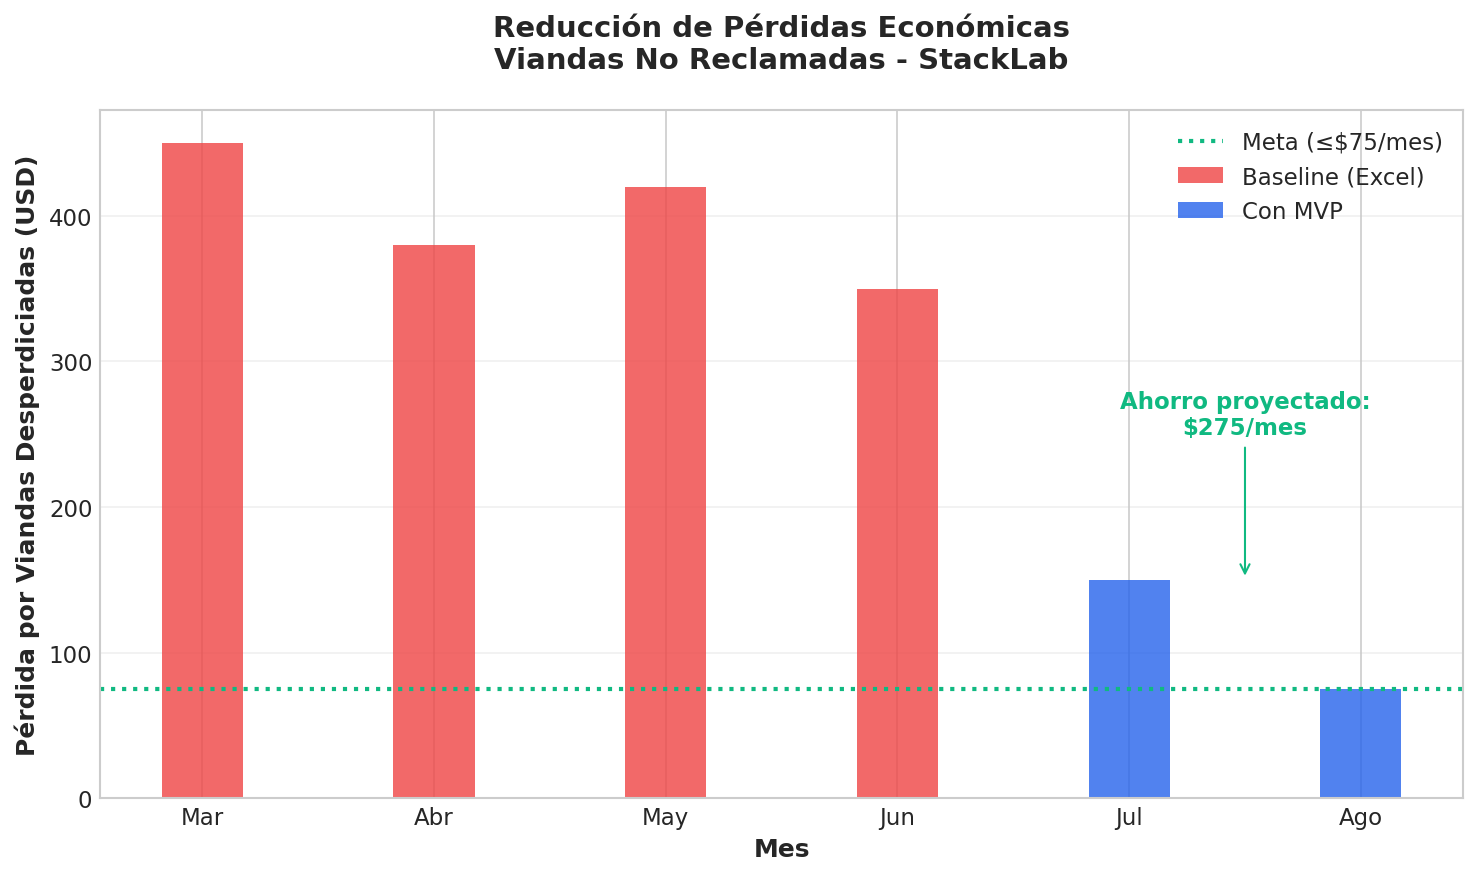
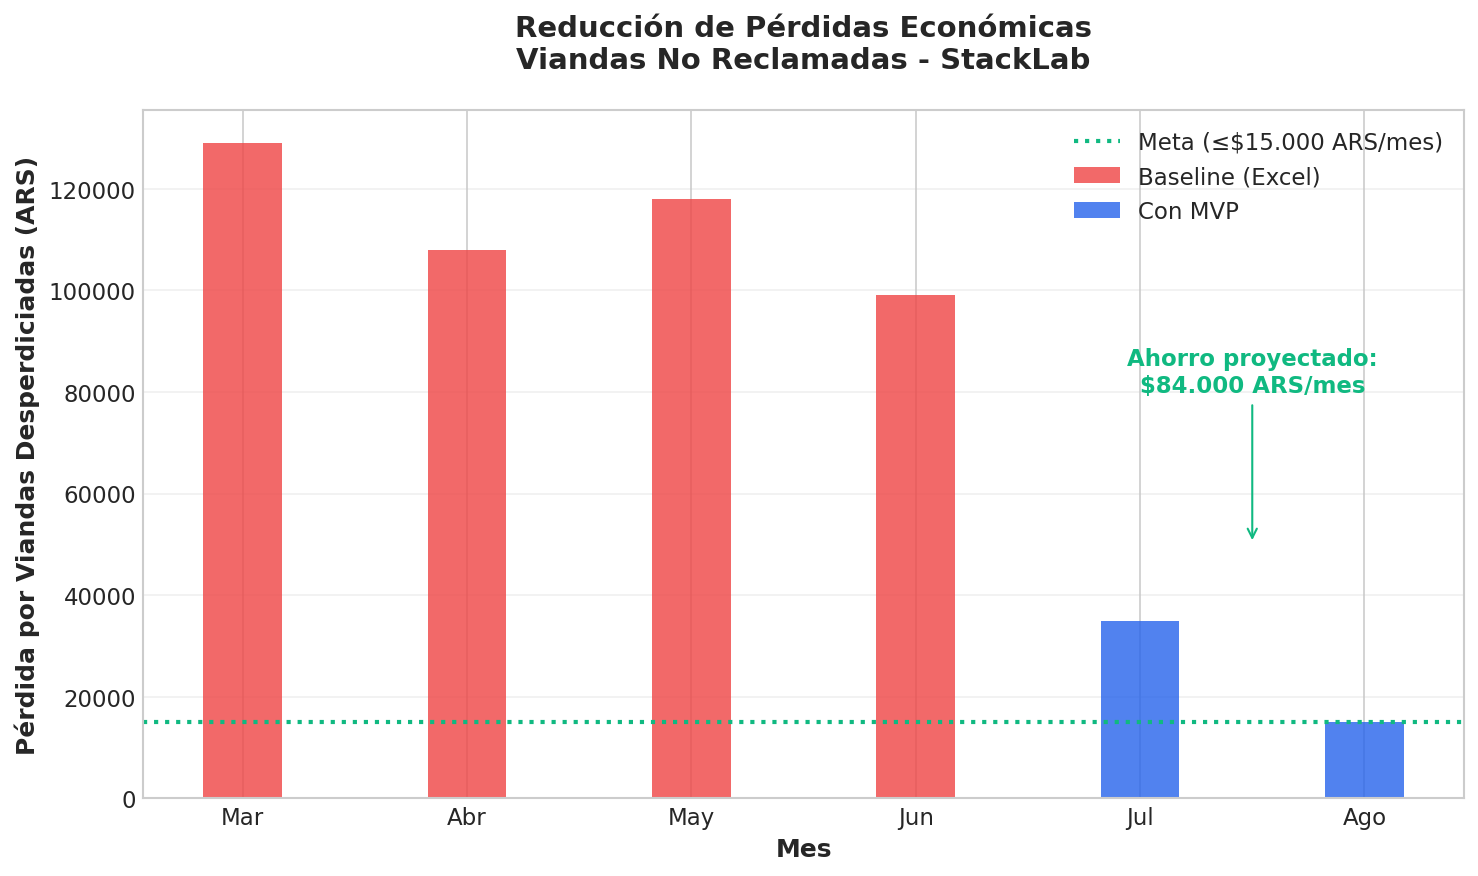
docs: regenera graficos en ARS (pesos argentinos)
- Gráfico 2: USD → ARS (Pérdida por Viandas Desperdiciadas)
- Meta: ≤5.000 ARS/mes
- Ahorro proyectado: 4.000 ARS/mes
- Eje Y actualizado a 'Pérdida por Viandas Desperdiciadas (ARS)'
- Valores coherentes con informe: 1.000-29.000 ARS/mes

diff --git a/generar_graficos.py b/generar_graficos.py
@@ -61,9 +61,10 @@ plt.close()
 fig, ax = plt.subplots(figsize=(10, 6))
 
 meses = ['Mar', 'Abr', 'May', 'Jun', 'Jul', 'Ago']
-perdidas_actual = [450, 380, 420, 350, 0, 0]  # Pre-MVP
-perdidas_proyectado = [450, 380, 420, 350, 150, 75]
-meta_perdidas = [75] * len(meses)
+# Valores en ARS (pesos argentinos)
+perdidas_actual = [129000, 108000, 118000, 99000, 0, 0]  # Pre-MVP
+perdidas_proyectado = [129000, 108000, 118000, 99000, 35000, 15000]
+meta_perdidas = [15000] * len(meses)
 
 idx_mvp_m = 4  # Jul inicia MVP
 
@@ -75,10 +76,10 @@ bars1 = ax.bar(x[:idx_mvp_m], perdidas_actual[:idx_mvp_m], width,
 bars2 = ax.bar(x[idx_mvp_m:], perdidas_proyectado[idx_mvp_m:], width,
                label='Con MVP', color=COLOR_PRIMARIO, alpha=0.8)
 
-ax.axhline(y=75, color=COLOR_SECUNDARIO, linestyle=':', linewidth=2, label='Meta (≤$75/mes)')
+ax.axhline(y=15000, color=COLOR_SECUNDARIO, linestyle=':', linewidth=2, label='Meta (≤$15.000 ARS/mes)')
 
 ax.set_xlabel('Mes', fontsize=12, fontweight='bold')
-ax.set_ylabel('Pérdida por Viandas Desperdiciadas (USD)', fontsize=12, fontweight='bold')
+ax.set_ylabel('Pérdida por Viandas Desperdiciadas (ARS)', fontsize=12, fontweight='bold')
 ax.set_title('Reducción de Pérdidas Económicas\nViandas No Reclamadas - StackLab', 
              fontsize=14, fontweight='bold', pad=20)
 ax.set_xticks(x)
@@ -87,8 +88,9 @@ ax.legend(loc='upper right', framealpha=0.9)
 ax.grid(True, alpha=0.3, axis='y')
 
 # Anotación de ahorro
-ahorro = 350 - 75
-ax.annotate(f'Ahorro proyectado:\n${ahorro}/mes', xy=(4.5, 150), xytext=(4.5, 250),
+ahorro = 99000 - 15000
+ax.annotate(f'Ahorro proyectado:\n${ahorro:,.0f} ARS/mes'.replace(',', '.'), 
+            xy=(4.5, 50000), xytext=(4.5, 80000),
             arrowprops=dict(arrowstyle='->', color=COLOR_SECUNDARIO),
             fontsize=11, color=COLOR_SECUNDARIO, fontweight='bold',
             ha='center')
